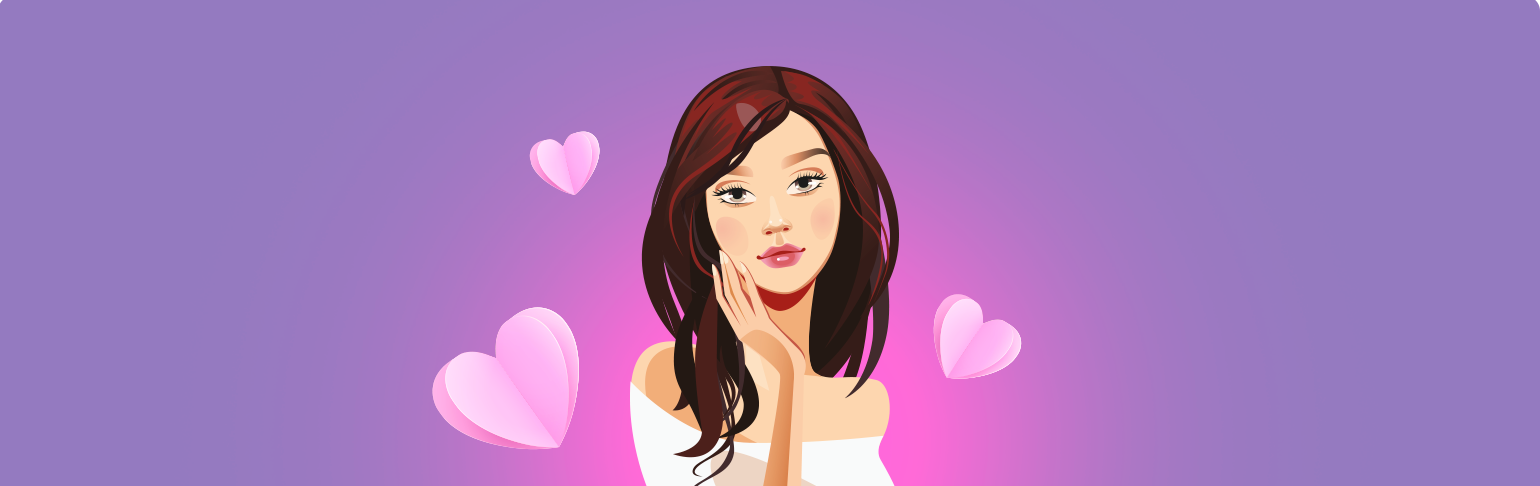
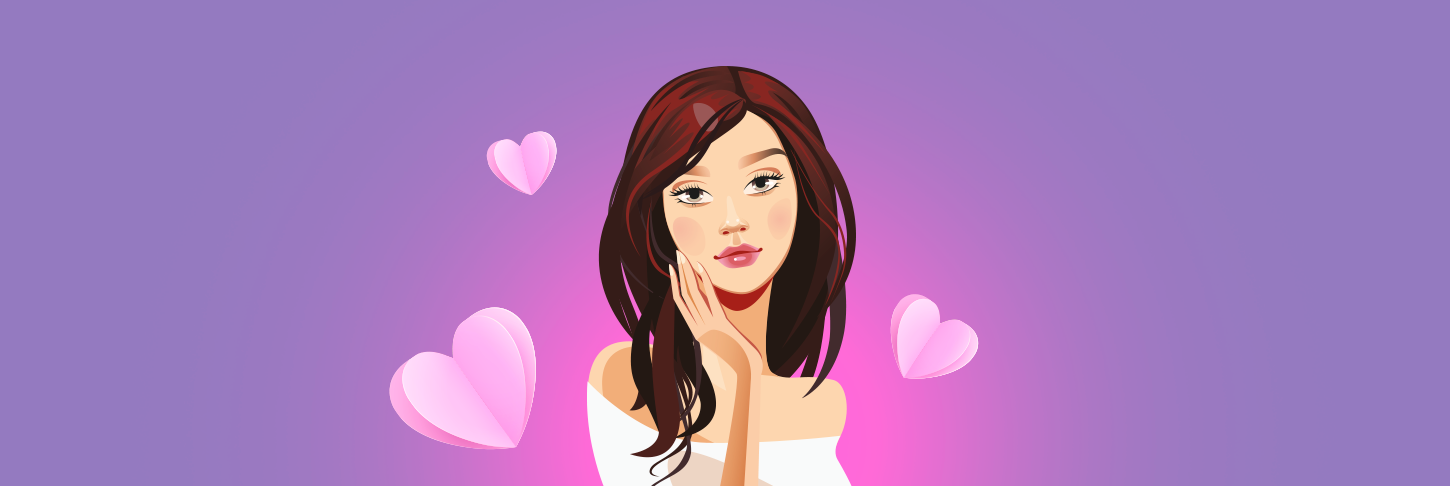
ended

Changed region(s): [[0.2483, 0.1235, 0.6828, 1.0], [0.9931, 0.0, 1.0, 0.0309]]

diff --git a/html/results.html b/html/results.html
@@ -13,7 +13,8 @@
         </div>
     <div class='dream-section' id='dream_section'>
         <div class='dream-img'>
-        <img src='../img/dream.png'>
+        <img src='../img/dream.png' class='desktop'>
+        <img src='../img/dream_mobile.png' class='mobile'>
         </div>
         <div class='section-text'>
             <p class='section-header'>ТЫ — ЖЕНЩИНА-МЕЧТА!</p>
@@ -29,7 +30,8 @@
 
         <div class='holiday-section' id='holiday_section'>
             <div class='holiday-img'>
-            <img src='../img/holiday.png'>
+            <img src='../img/holiday.png' class='desktop'>
+            <img src='../img/holiday_mobile.png' class='mobile'>
             </div>
             <div class='section-text'>
                 <p class='section-header'>ТЫ — ЖЕНЩИНА-ПРАЗДНИК!</p>
@@ -46,7 +48,8 @@
 
             <div class='hunter-section' id='hunter_section'>
                 <div class='hunter-img'>
-                <img src='../img/hunter.png'>
+                <img src='../img/hunter.png' class='desktop'>
+                <img src='../img/hunter_mobile.png' class='mobile'>
                 </div>
                 <div class='section-text'>
                     <p class='section-header'>ТЫ — ЖЕНЩИНА-ОХОТНИЦА!</p>
@@ -61,7 +64,8 @@
 
                 <div class='queen-section' id='queen_section'>
                     <div class='queen-img'>
-                    <img src='../img/queen.png'>
+                    <img src='../img/queen.png' class='desktop'>
+                    <img src='../img/queen_mobile.png' class='mobile'>
                     </div>
                     <div class='section-text'>
                         <p class='section-header'>ТЫ — КОРОЛЕВА!</p>
@@ -76,7 +80,8 @@
 
                     <div class='tenderness-section' id='tenderness_section'>
                         <div class='tenderness.img'>
-                        <img src='../img/tenderness.png'>
+                        <img src='../img/tenderness.png' class='desktop'>
+                        <img src='../img/tenderness_mobile.png' class='mobile'>
                         </div>
                         <div class='section-text'>
                             <p class='section-header'>ТЫ — ЖЕНЩИНА-НЕЖНОСТЬ!</p>
@@ -91,7 +96,8 @@
 
                         <div class='soul-section' id='soul_section'>
                             <div class='soul-img'>
-                            <img src='../img/soul.png'>
+                            <img src='../img/soul.png' class='desktop'>
+                            <img src='../img/soul_mobile.png' class='mobile'>
                             </div>
                             <div class='section-text'>
                                 <p class='section-header'>ТЫ — ЖЕНЩИНА-ДУША!</p>

diff --git a/style.css/main.css b/style.css/main.css
@@ -25,13 +25,13 @@ body {
 
  .header-logo {
     font-family: 'PT Serif';
-    font-size: 57.26306px;
+     font-size: 4vw;    /* 57.26306px; */
     color: white;
     position: absolute;
     top: calc(20% - 20px);
     left: 15%;
     z-index: 999;
-    max-width: 480px;
+    max-width: 35vw;
     height: auto;
 }
 
@@ -55,8 +55,8 @@ main {
 }
 
 .responsive {
-    max-width: 191px;
-    max-height: 195px;
+    max-width: 300x;
+    max-height: auto;
 }
 
 
@@ -65,26 +65,50 @@ main {
     justify-self: center;
     grid-template-columns: repeat(3, 1fr);
     margin: 75px 240px 100px 240px;
+    z-index: 0;
+    width: 300px;
+}
+
+@media screen and (max-width: 1145px) {
+.header-logo {
+    font-size: 4vw;
+}
 }
 
 @media screen and (max-width: 1045px) {
     .main-img-container {
         grid-template-columns: repeat(2, 1fr);
-        margin: 20px;
-    }
+        margin: 15vw;
+} .header-logo {
+    top: calc(10% - 20px);
+}
 }
 
 @media screen and (max-width: 700px) {
     .main-img-container {
         grid-template-columns: repeat(1, 1fr);
-        margin: 15px;
+        justify-content: center;
+        margin: 15vw;
+    } .responsive {
+        max-width: 230px;
+    } .main-logo {
+        font-size: 23px;
     }
+}
+
+@media screen and (max-width: 500px) {
+.header-logo { 
+    top: calc(6% - 20px);
+    left: 10%;
+    max-width: 20vh;
+}
 }
 
 
 a :hover {
-   background-image: url('../img/ring_hover_2.png');
+   background-image: url('../img/ring_hover0.png');
    z-index:999;
+   background-size: cover;
 }
 
 /* /main */

diff --git a/index.html b/index.html
@@ -31,12 +31,12 @@
         </p>
       </div>
       <div class="main-img-container">
-        <a href='html/results.html#dream_section' class="main-img"><img src='img/main-block-first0-img.png' class='responsive'></a>
+        <a href='html/results.html#dream_section' class="main-img"><img src='img/main-block-first-img2.png' class='responsive'></a>
         <a href='html/results.html#holiday_section'  class="main-img"><img src='img/main-block-second2-img.png' class='responsive'></a>
-        <a href='html/results.html#hunter_section'  class="main-img"><img src='img/main-block-third-img.png' class='responsive'></a>
-        <a href='html/results.html#queen_section'  class="main-img"><img src='img/main-block-fourth-img.png' class='responsive'></a>
+        <a href='html/results.html#hunter_section'  class="main-img"><img src='img/main-block-third-img2.png' class='responsive'></a>
+        <a href='html/results.html#queen_section'  class="main-img"><img src='img/main-block-fourth-img2.png' class='responsive'></a>
         <a href='html/results.html#tenderness_section'  class="main-img"><img src='img/main-block-fifth-img.png' class='responsive'></a>
-        <a href='html/results.html#soul_section'  class="main-img"><img src='img/main-block-sixth0-img.png' class='responsive'></a>
+        <a href='html/results.html#soul_section'  class="main-img"><img src='img/main-block-sixth-img2.png' class='responsive'></a>
       </div>
     </main>
     <footer>

diff --git a/style.css/results.css b/style.css/results.css
@@ -23,6 +23,10 @@ html {
     color: rgba(8,8,8,255);
 }
 
+img {
+    width: 100%;
+}
+
 .section-header {
     margin-top: 75px;
     margin-bottom: 50px;
@@ -40,6 +44,7 @@ html {
     text-align: center;
     font-size: 18px;
     font-family: 'AvertaCY, Regular', sans-serif;
+    color: rgba(8,8,8,255)
 }
 
 .text-pattern {
@@ -68,6 +73,10 @@ a {
     margin-bottom: 100px;
 }
 
+.mobile {
+    display: none;
+}
+
 /*  */
 
 /*  */
@@ -79,6 +88,8 @@ a {
         width: 550px;
         height: 80px;
         font-size: 24px;
+    } .main-header {
+        margin: 40px;
     }
 }
 
@@ -90,6 +101,14 @@ a {
         width: 300px;
         height: 60px;
         font-size: 15px;
+    } .desktop {
+        display: none;
+    } .mobile {
+        display: inline-block;
+    } .main-header {
+        font-size: 35px;
+    } .section-header {
+        font-size: 25px;
     }
 }
 
